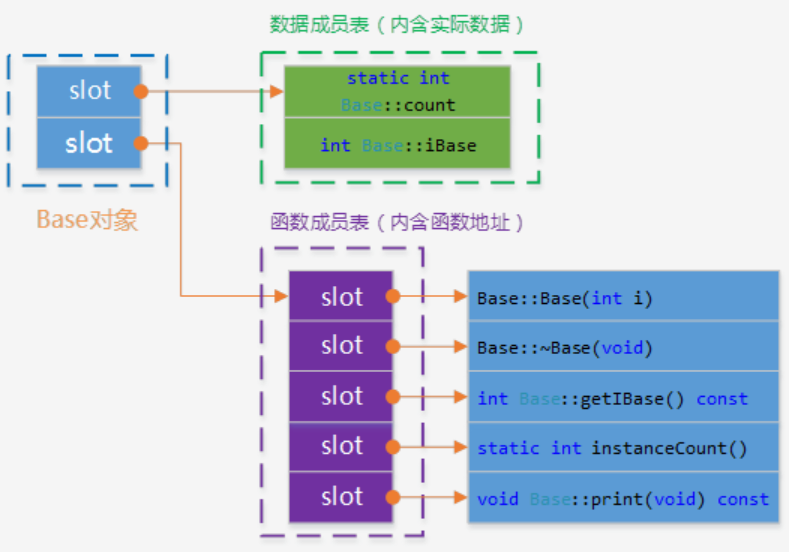
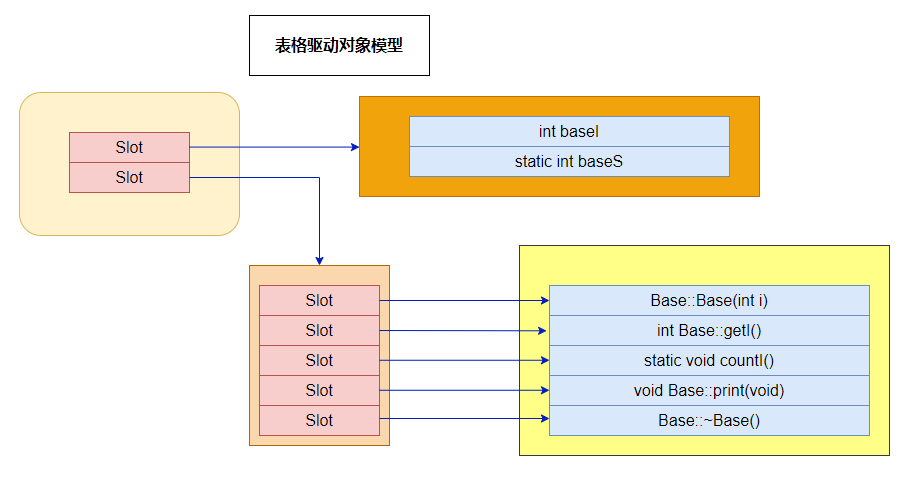
update

diff --git a/impl/cpp/cpp 基础/对象模型.md b/impl/cpp/cpp 基础/对象模型.md
@@ -1,27 +1,28 @@
-# 三种经典类对象内存布局
+# 对象内存布局
 
-在C++中，成员分为成员变量和成员函数：
+## 类成员
 
-- 成员变量分别静态成员变量、非静态成员变量
-- 成员函数分为静态成员函数、非静态成员函数、虚函数
+在C++中，成员分为数据成员和成员函数：
+
+![](./img/class_member.png)
 
 ```
 class Base
 {
 public:
-	Base(int n) :iBase(n) {};
-	virtual ~Base(void) {};
-	int getIBase() const { return iBase; };
-	static int instanceCount() { return count; };
-	virtual void print() const {};
+	Base(int i) :baseI(i) {};
+	int getI() { return baseI; }
+	static void countI() {};
+	virtual ~Base() {}
+	virtual void print(void) { std::cout << "Base::print()"<<std::endl; }
 
-
-public:
-	int iBase;
-	static int count;
+private:
+	int baseI;
+	static int baseS;
 };
-int Base::count = 0;
 ```
+
+![](./img/class_base.png)
 
 ## 简单对象模型
 
@@ -49,7 +50,18 @@ int Base::count = 0;
 - 降低了对象的slot，也就是意味着提高了访问成员的效率，直接存取变量提高了效率和内存紧凑方便寻址
 - 成员变量一级寻址和成员函数二级寻址执行效率仍然很低，继承越多，效率下降越明显
 
-## C++ 对象模型
+# 非继承下的 C++ 对象模型
+
+在此模型下，nonstatic 数据成员被置于每一个类对象中，而static数据成员被置于类对象之外。static与nonstatic函数也都放在类对象之外，而对于virtual 函数，则通过虚函数表+虚指针来支持，具体如下：
+
+- 每个类生成一个表格，称为虚表（virtual table，简称 vtbl）。虚表中存放着一堆指针，这些指针指向该类每一个虚函数。虚表中的函数地址将按声明时的顺序排列，不过当子类有多个重载函数时例外
+- 每个类对象都拥有一个虚表指针(vptr)，由编译器为其生成。虚表指针的设定与重置皆由类的复制控制（也即是构造函数、析构函数、赋值操作符）来完成。vptr 的位置为编译器决定，传统上它被放在所有显示声明的成员之后，不过现在许多编译器把 vptr 放在一个类对象的最前端
+
+另外，虚函数表的前面设置了一个指向 type_info 的指针，用以支持 RTTI（Run Time Type Identification，运行时类型识别）。RTTI 是为多态而生成的信息，包括对象继承关系，对象本身的描述等，只有具有虚函数的对象才会生成。
+
+
+
+
 
 ![](./img/cpp_om.png)
 
